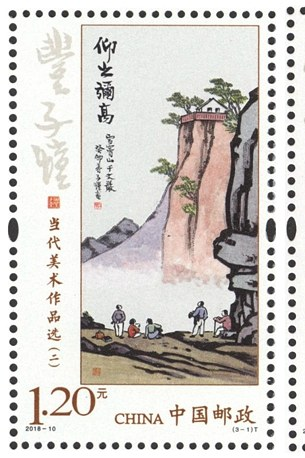
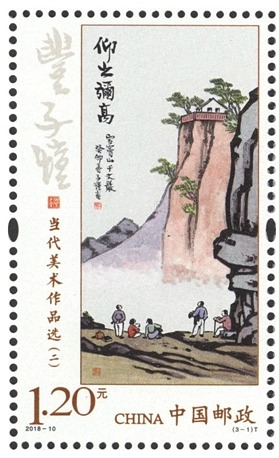
合并多会话标签用词统一与图片补充(1960-2025多个年份)
- 标签用词统一等修正（如2020-3中国剪纸→剪纸）
- 2018年补1张图片
- 标签总表/录入进度表自动刷新

diff --git a/标签总表.md b/标签总表.md
@@ -48,6 +48,7 @@
 | 非物质文化遗产 | 26 |
 | 大学建校 | 24 |
 | 花卉 | 23 |
+| 农业 | 22 |
 | 鸟类 | 22 |
 | 国庆 | 21 |
 | 毛泽东 | 21 |
@@ -60,10 +61,10 @@
 | 自治区成立 | 18 |
 | 民生 | 18 |
 | 建交 | 17 |
+| 区域发展 | 17 |
 | 现代画 | 16 |
 | 佛教 | 16 |
 | 湖泊 | 16 |
-| 区域发展 | 16 |
 | 全运会 | 15 |
 | 过年 | 15 |
 | 国际会议 | 14 |
@@ -72,7 +73,6 @@
 | 民俗节日 | 14 |
 | 陶瓷 | 13 |
 | 人大 | 12 |
-| 农业 | 12 |
 | 航天 | 12 |
 | 辛亥革命 | 11 |
 | 妇女 | 11 |
@@ -101,6 +101,7 @@
 | 长征 | 8 |
 | 十大元帅 | 8 |
 | 道教 | 8 |
+| 城市风光 | 8 |
 | 抗战胜利 | 7 |
 | 建军 | 7 |
 | 展会 | 7 |
@@ -111,7 +112,6 @@
 | 国家重点保护野生动物 | 7 |
 | 历史故事 | 7 |
 | 江河 | 7 |
-| 城市风光 | 7 |
 | 政协 | 6 |
 | 世界和平 | 6 |
 | 青少年 | 6 |
@@ -126,19 +126,23 @@
 | 冬奥会 | 6 |
 | 红楼梦 | 6 |
 | 爱国民主人士 | 6 |
-| 联合国 | 6 |
 | 古建筑 | 6 |
 | 民间传说 | 6 |
 | 中国古代书法 | 6 |
 | 七夕 | 6 |
+| 丝绸之路 | 6 |
 | 金融 | 5 |
 | 孙中山 | 5 |
 | 通信 | 5 |
 | 文化和自然双重遗产 | 5 |
 | 延安文艺座谈会 | 5 |
 | 教育 | 5 |
+| 台湾 | 5 |
 | 墓葬文物 | 5 |
 | 四大避暑胜地 | 5 |
+| 联合国 | 5 |
+| 民族英雄 | 5 |
+| 新疆 | 5 |
 | 树木 | 5 |
 | 猛禽 | 5 |
 | 水浒传 | 5 |
@@ -156,7 +160,6 @@
 | 拜年 | 5 |
 | 中国古代科学家 | 4 |
 | 五四运动 | 4 |
-| 现代建筑 | 4 |
 | 鱼类 | 4 |
 | 越南 | 4 |
 | 国际主义战士 | 4 |
@@ -171,7 +174,6 @@
 | 英模 | 4 |
 | 万国邮政联盟 | 4 |
 | 学大寨 | 4 |
-| 台湾 | 4 |
 | 内蒙古 | 4 |
 | 共青团 | 4 |
 | 长城 | 4 |
@@ -187,7 +189,6 @@
 | 儿童画 | 4 |
 | 生肖鼠 | 4 |
 | 生肖牛 | 4 |
-| 新疆 | 4 |
 | 故宫博物院 | 4 |
 | 生肖虎 | 4 |
 | 民居 | 4 |
@@ -219,10 +220,12 @@
 | 中国红十字会 | 3 |
 | 国际组织 | 3 |
 | 气象 | 3 |
+| 剪纸 | 3 |
 | 机场 | 3 |
 | 民族建筑 | 3 |
 | 畜牧业 | 3 |
 | 文艺 | 3 |
+| 现代建筑 | 3 |
 | 巴黎公社 | 3 |
 | 古巴 | 3 |
 | 民间舞蹈 | 3 |
@@ -265,6 +268,7 @@
 | 古城 | 3 |
 | 灯塔 | 3 |
 | 人民军队早期将领 | 3 |
+| 中秋节 | 3 |
 | 古代名将 | 3 |
 | 出版 | 3 |
 | 华侨 | 3 |
@@ -272,7 +276,6 @@
 | 中医药 | 3 |
 | 高铁 | 3 |
 | 中国共产党 | 3 |
-| 丝绸之路 | 3 |
 | 水果 | 3 |
 | 一带一路 | 3 |
 | 儿童游戏 | 3 |
@@ -341,7 +344,7 @@
 | 中国船舶工业 | 2 |
 | 清正廉洁 | 2 |
 | 园林博览会 | 2 |
-| 中国剪纸 | 2 |
+| 楚辞 | 2 |
 | 莫高窟 | 2 |
 | 封神演义 | 2 |
 | 中苏关系 | 1 |
@@ -359,7 +362,6 @@
 | 林业 | 1 |
 | 核工业 | 1 |
 | 航空体育 | 1 |
-| 剪纸 | 1 |
 | 少先队 | 1 |
 | 匈牙利 | 1 |
 | 金鱼 | 1 |
@@ -556,7 +558,6 @@
 | 阅读 | 1 |
 | 文化遗产 | 1 |
 | 相思鸟 | 1 |
-| 中秋节 | 1 |
 | G20 | 1 |
 | 四季 | 1 |
 | 恐龙 | 1 |
@@ -569,7 +570,6 @@
 | 中国古代科学家及著作 | 1 |
 | 喀什 | 1 |
 | 上合组织 | 1 |
-| 民族英雄 | 1 |
 | 大雁 | 1 |
 | 诗经 | 1 |
 | 进博会 | 1 |
@@ -615,7 +615,6 @@
 | 马来西亚 | 1 |
 | 中国核工业 | 1 |
 | 数学 | 1 |
-| 楚辞 | 1 |
 | 古树名木 | 1 |
 | 摩纳哥 | 1 |
 | 联合国粮农组织 | 1 |
@@ -749,7 +748,7 @@
 | 纪73 | 全国工业交通展览会 | 历史事件 | 展会、工业 |
 | 特36 | 民族文化宫 | 建筑 | 民族建筑 |
 | 纪72 | 第一届全国运动会 | 体育 | 全运会 |
-| 特37 | 全国农业展览馆 | 建筑 | 现代建筑、北京 |
+| 特37 | 全国农业展览馆 | 建筑 | 农业、北京 |
 | 纪74 | 遵义会议二十五周年 | 历史事件 | 党史、长征、遵义会议 |
 | 纪76 | “三·八”国际劳动妇女节五十周年 | 节日 | 现代节日、妇女节 |
 | 纪75 | 中苏友好同盟互助条约签订十周年 | 周年纪念 | 苏联 |
@@ -1112,7 +1111,7 @@
 | J112 | 中国人民之友 | 人物 | 外国友人 |
 | J113 | 郑和下西洋五百八十周年 | 历史事件 | 郑和下西洋 |
 | J114 | 徐悲鸿诞生九十周年 | 人物 | 现代人、美术家 |
-| J115 | 林则徐诞生二百周年 | 人物 | 现代人、禁毒 |
+| J115 | 林则徐诞生二百周年 | 人物 | 现代人、禁毒、民族英雄 |
 | J116 | 西藏自治区成立二十周年 | 周年纪念 | 自治区成立、西藏 |
 | J117 | 抗日战争和世界反法西斯战争胜利四十周年 | 历史事件 | 抗战胜利 |
 | J118 | 第二届全国工人运动会 | 体育 | 综合运动会 |
@@ -1148,7 +1147,7 @@
 | J138 | 叶剑英同志诞生九十周年 | 解放军 | 十大元帅 |
 | T116 | 敦煌壁画（第一组） | 绘画艺术 | 古画、敦煌壁画 |
 | T117 | 我们的节日 | 6.1儿童邮票 | 现代节日 |
-| T118 | 今日农村 | 历史事件 | 农村 |
+| T118 | 今日农村 | 历史事件 | 农村、农业 |
 | T119 | 邮政储蓄 | 历史事件 | 金融 |
 | J139 | 世界语诞生一百周年 | 历史事件 | 世界语 |
 | J140 | 中国人民解放军建军六十周年 | 解放军 | 建军 |
@@ -1163,7 +1162,7 @@
 | T124 | 戊辰年 | 生肖 | 生肖龙 |
 | J145 | 蔡元培诞生一百二十周年 | 人物 | 现代人 |
 | J146 | 陶铸同志诞生八十周年 | 共产党人 | 老一辈革命家 |
-| T125 | 农村风情 | 历史事件 | 农村 |
+| T125 | 农村风情 | 历史事件 | 农村、农业 |
 | J147 | 中华人民共和国第七届全国人民代表大会 | 历史事件 | 人大 |
 | J148 | 海南建省 | 历史事件 | 海南、海南建省 |
 | J149 | 中国现代科学家（第一组） | 人物 | 现代人、中国现代科学家 |
@@ -1379,7 +1378,7 @@
 | 1996-30 | 天津民间彩塑 | 文化 | 非物质文化遗产、彩塑 |
 | 1996-31 | 香港经济建设 | 历史事件 | 区域发展、香港 |
 | 1997-1 | 丁丑年 | 生肖 | 生肖牛 |
-| 1997-2 | 中国首次农业普查 | 历史事件 | 民生 |
+| 1997-2 | 中国首次农业普查 | 历史事件 | 民生、农业 |
 | 1997-3 | 中国旅游年 | 历史事件 | 旅游 |
 | 1997-4 | 潘天寿作品选 | 绘画艺术 | 现代画 |
 | 1997-5 | 茶 | 文化 | 茶 |
@@ -1504,7 +1503,7 @@
 | 2001-24 | 中华人民共和国第九届运动会 | 体育 | 全运会 |
 | 2001-25 | 六盘山 | 山水风光 | 山 |
 | 2001-26 | 民间传说–许仙与白娘子 | 文化 | 民间传说 |
-| 2001-27 | 郑成功收复台湾340年 | 历史事件 | 台湾 |
+| 2001-27 | 郑成功收复台湾340年 | 历史事件 | 台湾、民族英雄 |
 | 2001-28 | 青藏铁路开工纪念 | 科技 | 铁路 |
 | 2002-1 | 壬午年 | 生肖 | 生肖马 |
 | 2002-2 | 八大山人作品选 | 绘画艺术 | 古画、猛禽 |
@@ -1525,7 +1524,7 @@
 | 2002-17 | 人民军队早期将领 | 解放军 | 人民军队早期将领 |
 | 2002-18 | 中国古代科学家（第四组） | 人物 | 古代人、中国古代科学家 |
 | 2002-19 | 雁荡山 | 山水风光 | 山 |
-| 2002-20 | 中秋节 | 节日 | 民俗节日 |
+| 2002-20 | 中秋节 | 节日 | 民俗节日、中秋节 |
 | 2002-21 | 黄河壶口瀑布 | 山水风光 | 瀑布 |
 | 2002-22 | 亭台与城堡 | 建筑 | 古建筑、联合发行 |
 | 2002-23 | 民间传说—董永与七仙女 | 文化 | 民间传说 |
@@ -1549,7 +1548,7 @@
 | 2003-14 | 飞机发明一百周年 | 科技 | 航空 |
 | 2003-15 | 晋祠彩塑 | 文物古迹 | 彩塑 |
 | 2003-16 | 少数民族传统体育 | 体育 | 少数民族传统体育、少数民族 |
-| 2003-17 | 中国古代名将—岳飞 | 人物 | 古代人、古代名将 |
+| 2003-17 | 中国古代名将—岳飞 | 人物 | 古代人、古代名将、民族英雄 |
 | 2003-18 | 重阳节 | 节日 | 民俗节日 |
 | 2003-19 | 图书艺术 | 文化 | 出版、联合发行 |
 | 2003-20 | 民间传说-梁山伯与祝英台 | 文化 | 民间传说 |
@@ -1624,7 +1623,7 @@
 | 2006-7 | 青城山 | 山水风光 | 山、道教、世界文化遗产 |
 | 2006-8 | 云冈石窟 | 文物古迹 | 石窟、世界文化遗产 |
 | 2006-9 | 天柱山 | 山水风光 | 山、道教 |
-| 2006-10 | 全面取消农业税 | 历史事件 | 民生 |
+| 2006-10 | 全面取消农业税 | 历史事件 | 民生、农业 |
 | 2006-11 | 中国现代科学家（四） | 人物 | 现代人、中国现代科学家 |
 | 2006-12 | 现代灯塔 | 建筑 | 灯塔 |
 | 2006-13 | 中国航天事业创建五十周年 | 科技 | 航天 |
@@ -1694,7 +1693,7 @@
 | 2008-14 | 海峡西岸建设 | 历史事件 | 区域发展 |
 | 2008-15 | 第二次全国土地调查 | 历史事件 | 民生 |
 | 2008-16 | 龟兹石窟壁画 | 绘画艺术 | 壁画 |
-| 2008-17 | 古代名将——戚继光 | 人物 | 古代人、古代名将 |
+| 2008-17 | 古代名将——戚继光 | 人物 | 古代人、古代名将、民族英雄 |
 | 2008-18 | 第29届奥林匹克运动会开幕纪念 | 体育 | 奥运会 |
 | 2008-19 | 北京2008年奥林匹克博览会开幕纪念 | 体育 | 奥运会 |
 | 2008-20 | 奥运会从北京到伦敦 | 体育 | 奥运会、联合发行 |
@@ -1857,7 +1856,7 @@
 | 2013-26 | 第十届中国艺术节 | 文化 | 中国艺术节 |
 | 2013-27 | 习仲勋同志诞生一百周年 | 共产党人 | 老一辈革命家 |
 | 2013-28 | 世界审计组织第二十一届大会 | 历史事件 | 审计 |
-| 2013-29 | 杂交水稻 | 科技 | 杂交水稻 |
+| 2013-29 | 杂交水稻 | 科技 | 杂交水稻、农业 |
 | 2013-30 | 毛泽东同志诞生一百二十周年 | 共产党人 | 毛泽东 |
 | 2013-31 | 武汉大学建校一百二十周年 | 周年纪念 | 大学建校 |
 | 2014-1 | 甲午年 | 生肖 | 生肖马 |
@@ -1984,7 +1983,7 @@
 | 2017-31 | 北京2022年冬奥会会徽和冬残奥会会徽 | 体育 | 奥运会、冬奥会 |
 | 2018-1 | 戊戌年 | 生肖 | 生肖狗 |
 | 2018-2 | 拜年 | 节日 | 民俗节日、拜年、过年 |
-| 2018-3 | 中国剪纸（一） | 文化 | 中国剪纸 |
+| 2018-3 | 中国剪纸（一） | 文化 | 剪纸 |
 | 2018-4 | 元宵节 | 节日 | 民俗节日 |
 | 2018-5 | 中华人民共和国第十三届全国人民代表大会 | 历史事件 | 人大 |
 | 2018-6 | 海棠花 | 植物花卉 | 海棠 |
@@ -1992,11 +1991,11 @@
 | 2018-8 | 中国古典文学名著——〈红楼梦〉（三） | 文学名著 | 红楼梦 |
 | 2018-9 | 马克思诞辰二百周年 | 共产党人 | 马克思主义 |
 | 2018-10 | 当代美术作品选（二） | 绘画艺术 | 现代画、当代美术作品选 |
-| 2018-11 | 丝绸之路文物（一） | 文物古迹 | 丝绸之路文物 |
+| 2018-11 | 丝绸之路文物（一） | 文物古迹 | 丝绸之路文物、丝绸之路 |
 | 2018-12 | 全国助残日 | 节日 | 现代节日 |
 | 2018-13 | 中国古代科学家及著作（一） | 人物 | 古代人、中国古代科学家及著作 |
-| 2018-14 | 喀什风光 | 山水风光 | 喀什 |
-| 2018-15 | 屈原 | 人物 | 古代人 |
+| 2018-14 | 喀什风光 | 山水风光 | 城市风光、喀什、新疆 |
+| 2018-15 | 屈原 | 人物 | 古代人、楚辞 |
 | 2018-16 | 上海合作组织青岛峰会 | 历史事件 | 国际峰会、上合组织 |
 | 2018-17 | 清正廉洁（一） | 文化 | 清正廉洁 |
 | 2018-18 | 水果（三） | 植物花卉 | 水果 |
@@ -2006,15 +2005,15 @@
 | 2018-22 | 大雁 | 动物 | 鸟类、大雁、七夕 |
 | 2018-23 | 长江经济带 | 历史事件 | 区域发展 |
 | 2018-24 | 诗经 | 文学名著 | 诗经、诗词 |
-| 2018-25 | 月圆中秋 | 节日 | 民俗节日 |
+| 2018-25 | 月圆中秋 | 节日 | 民俗节日、中秋节 |
 | 2018-26 | 宁夏回族自治区成立六十周年 | 周年纪念 | 自治区成立、宁夏 |
-| 2018-27 | 中国农民丰收节 | 节日 | 现代节日 |
+| 2018-27 | 中国农民丰收节 | 节日 | 现代节日、农业 |
 | 2018-28 | 国际老年人日 | 节日 | 现代节日 |
 | 2018-29 | 广西壮族自治区成立六十周年 | 周年纪念 | 自治区成立、广西 |
 | 2018-30 | 中国国际进口博览会 | 历史事件 | 进博会 |
-| 2018-31 | 港珠澳大桥 | 建筑 | 桥梁 |
+| 2018-31 | 港珠澳大桥 | 建筑 | 桥梁、区域发展 |
 | 2018-32 | 北京2022年冬奥会——雪上运动 | 体育 | 奥运会、冬奥会 |
-| 2018-33 | 两岸“三通”十周年 | 历史事件 | 两岸三通 |
+| 2018-33 | 两岸“三通”十周年 | 历史事件 | 两岸三通、台湾 |
 | 2018-34 | 改革开放四十周年 | 历史事件 | 改革开放 |
 | 2019-1 | 己亥年 | 生肖 | 生肖猪 |
 | 2019-2 | 拜年 | 节日 | 民俗节日、拜年、过年 |
@@ -2049,7 +2048,7 @@
 | 2019-31 | 二十四节气（四） | 文化 | 非物质文化遗产、二十四节气 |
 | 2020-1 | 庚子年 | 生肖 | 生肖鼠 |
 | 2020-2 | 北京2022年冬奥会吉祥物和冬残奥会吉祥物 | 体育 | 奥运会、冬奥会 |
-| 2020-3 | 中国剪纸（二） | 文化 | 中国剪纸 |
+| 2020-3 | 中国剪纸（二） | 文化 | 剪纸 |
 | 2020-4 | 吴冠中作品选 | 绘画艺术 | 现代画 |
 | 2020-5 | 中埃建交五十周年 | 周年纪念 | 建交、联合发行、埃塞俄比亚 |
 | 2020-6 | 中国第一颗人造地球卫星发射成功五十周年 | 科技 | 航天、东方红一号、人造卫星 |
@@ -2084,7 +2083,7 @@
 | 2021-8 | 福建土楼 | 建筑 | 世界文化遗产、福建土楼 |
 | 2021-9 | 中巴建交七十周年 | 周年纪念 | 建交、联合发行、巴基斯坦 |
 | 2021-10 | 儿童画作品选 | 6.1儿童邮票 | 儿童画、儿童作品 |
-| 2021-11 | 丝绸之路文物（二） | 文物古迹 | 丝绸之路文物 |
+| 2021-11 | 丝绸之路文物（二） | 文物古迹 | 丝绸之路文物、丝绸之路 |
 | 2021-12 | 北京2022年冬奥会——竞赛场馆 | 体育 | 奥运会 |
 | 2021-13 | 中国共产党历史展览馆 | 历史事件 | 党史、中国共产党 |
 | 2021-14 | 第三十二届奥林匹克运动会 | 体育 | 奥运会 |
@@ -2150,7 +2149,7 @@
 | 2023-19 | 杭州第19届亚洲运动会 | 体育 | 亚运会 |
 | 2023-20 | 药用植物（三） | 植物花卉 | 药用植物 |
 | 2023-21 | 国家考古遗址公园 | 文物古迹 | 考古遗址公园 |
-| 2023-22 | 世界上第一株杂交水稻培育成功五十周年 | 科技 | 杂交水稻 |
+| 2023-22 | 世界上第一株杂交水稻培育成功五十周年 | 科技 | 杂交水稻、农业 |
 | 2023-23 | 科技创新（四） | 科技 | 科技创新 |
 | 2023-24 | 中国古代文学家（五） | 人物 | 古代人、中国古代文学家 |
 | 2023-25 | 长江三角洲区域一体化发展 | 历史事件 | 区域发展 |
@@ -2189,7 +2188,7 @@
 | 2025-4 | 数学之美 | 科技 | 数学 |
 | 2025-5 | 全民国家安全教育日10周年 | 节日 | 现代节日 |
 | 2025-6 | 中华全国总工会成立一百周年 | 周年纪念 | 中华全国总工会 |
-| 2025-7 | 丝绸之路文物（三） | 文物古迹 | 丝绸之路文物 |
+| 2025-7 | 丝绸之路文物（三） | 文物古迹 | 丝绸之路文物、丝绸之路 |
 | 2025-8 | 楚辞 | 文学名著 | 楚辞、诗词 |
 | 2025-9 | 动画——天书奇谭 | 6.1儿童邮票 | 动画 |
 | 2025-10 | 中国古代书法——篆书（二） | 书法艺术 | 中国古代书法、篆书 |
@@ -2205,8 +2204,8 @@
 | 2025-20 | 新疆维吾尔自治区成立七十周年 | 周年纪念 | 自治区成立、新疆 |
 | 2025-21 | 故宫博物院建院一百周年 | 文物古迹 | 故宫博物院、世界文化遗产 |
 | 2025-22 | 中摩建交三十周年 | 周年纪念 | 建交、联合发行、摩纳哥 |
-| 2025-23 | 中国农业大学建校一百二十周年 | 周年纪念 | 大学建校 |
-| 2025-24 | 联合国粮食及农业组织成立八十周年 | 周年纪念 | 联合国、联合国粮农组织 |
+| 2025-23 | 中国农业大学建校一百二十周年 | 周年纪念 | 大学建校、农业 |
+| 2025-24 | 联合国粮食及农业组织成立八十周年 | 周年纪念 | 农业、联合国粮农组织 |
 | 2025-25 | 中华全国集邮联合会第九次代表大会 | 文化 | 集邮、中华全国集邮联合会 |
 | 2025-26 | 2025年全球妇女峰会暨《北京宣言》和《行动纲领》通过三十周年 | 周年纪念 | 妇女 |
 | 2025-27 | 中萨建交五十周年 | 周年纪念 | 建交、联合发行、萨摩亚 |

diff --git a/录入进度表.md b/录入进度表.md
@@ -15,7 +15,7 @@
 | 2021 | ✅ | ✅30套 | ✅ | ✅30套 | ✅110张 | 已录入 |
 | 2020 | ✅ | ✅27套 | ✅ | ✅27套 | ✅85张 | 已录入 |
 | 2019 | ✅ | ✅31套 | ✅ | ✅31套 | ✅101张 | 已录入 |
-| 2018 | ✅ | ✅35套 | ✅ | ✅35套 | ✅105张 | 已录入 |
+| 2018 | ✅ | ✅35套 | ✅ | ✅35套 | ✅106张 | 已录入 |
 | 2017 | ✅ | ✅31套 | ✅ | ✅31套 | ✅109张 | 已录入 |
 | 2016 | ✅ | ✅34套 | ✅ | ✅35套 | ✅113张 | 已录入 |
 | 2015 | ✅ | ✅29套 | ✅ | ✅29套 | ✅101张 | 已录入 |
@@ -85,4 +85,4 @@
 | 1951 | ✅ | ✅6套 | ✅ | ✅6套 | ✅23张 | 已录入 |
 | 1950 | ✅ | ✅13套 | ✅ | ✅13套 | ✅78张 | 已录入 |
 | 1949 | ✅ | ✅2套 | ✅ | ✅2套 | ✅7张 | 已录入 |
-| **合计** | **78年** | ✅**1595套** | ✅78 | ✅**1594套** | ✅**5704张** | **78年已录入** |
+| **合计** | **78年** | ✅**1595套** | ✅78 | ✅**1594套** | ✅**5705张** | **78年已录入** |
